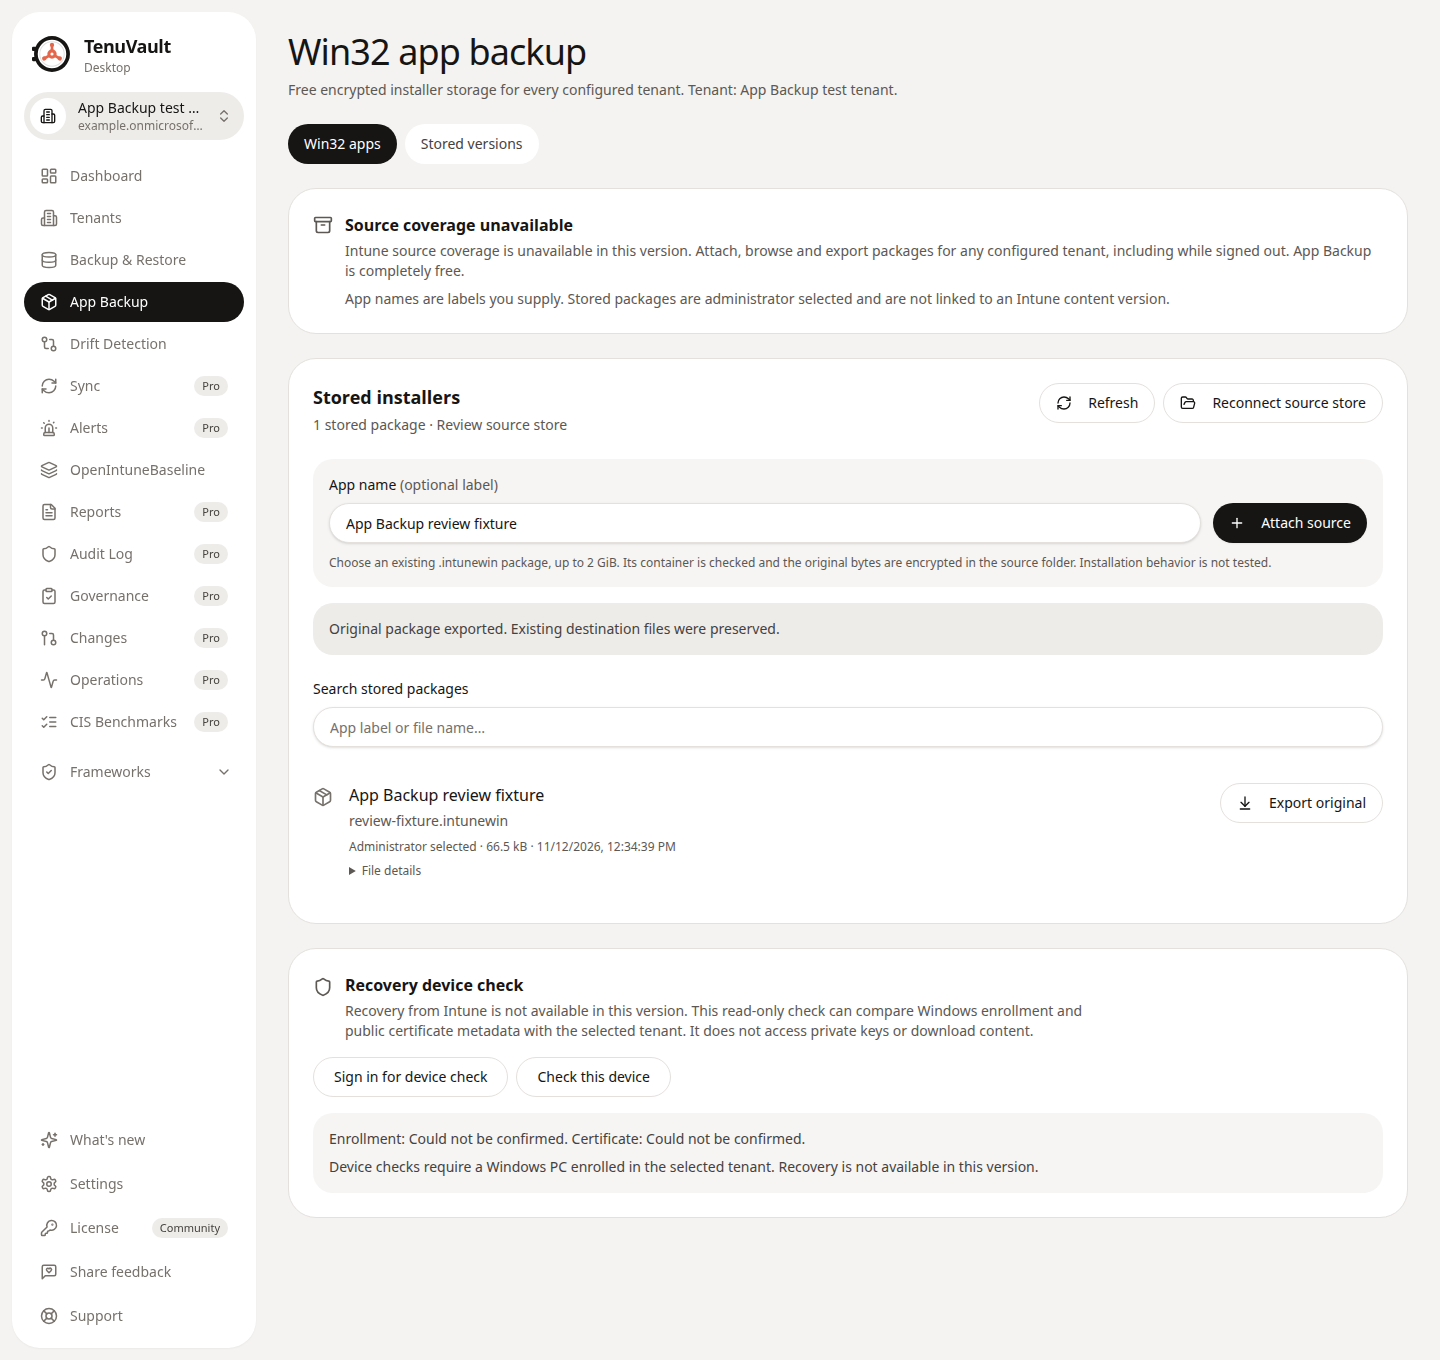
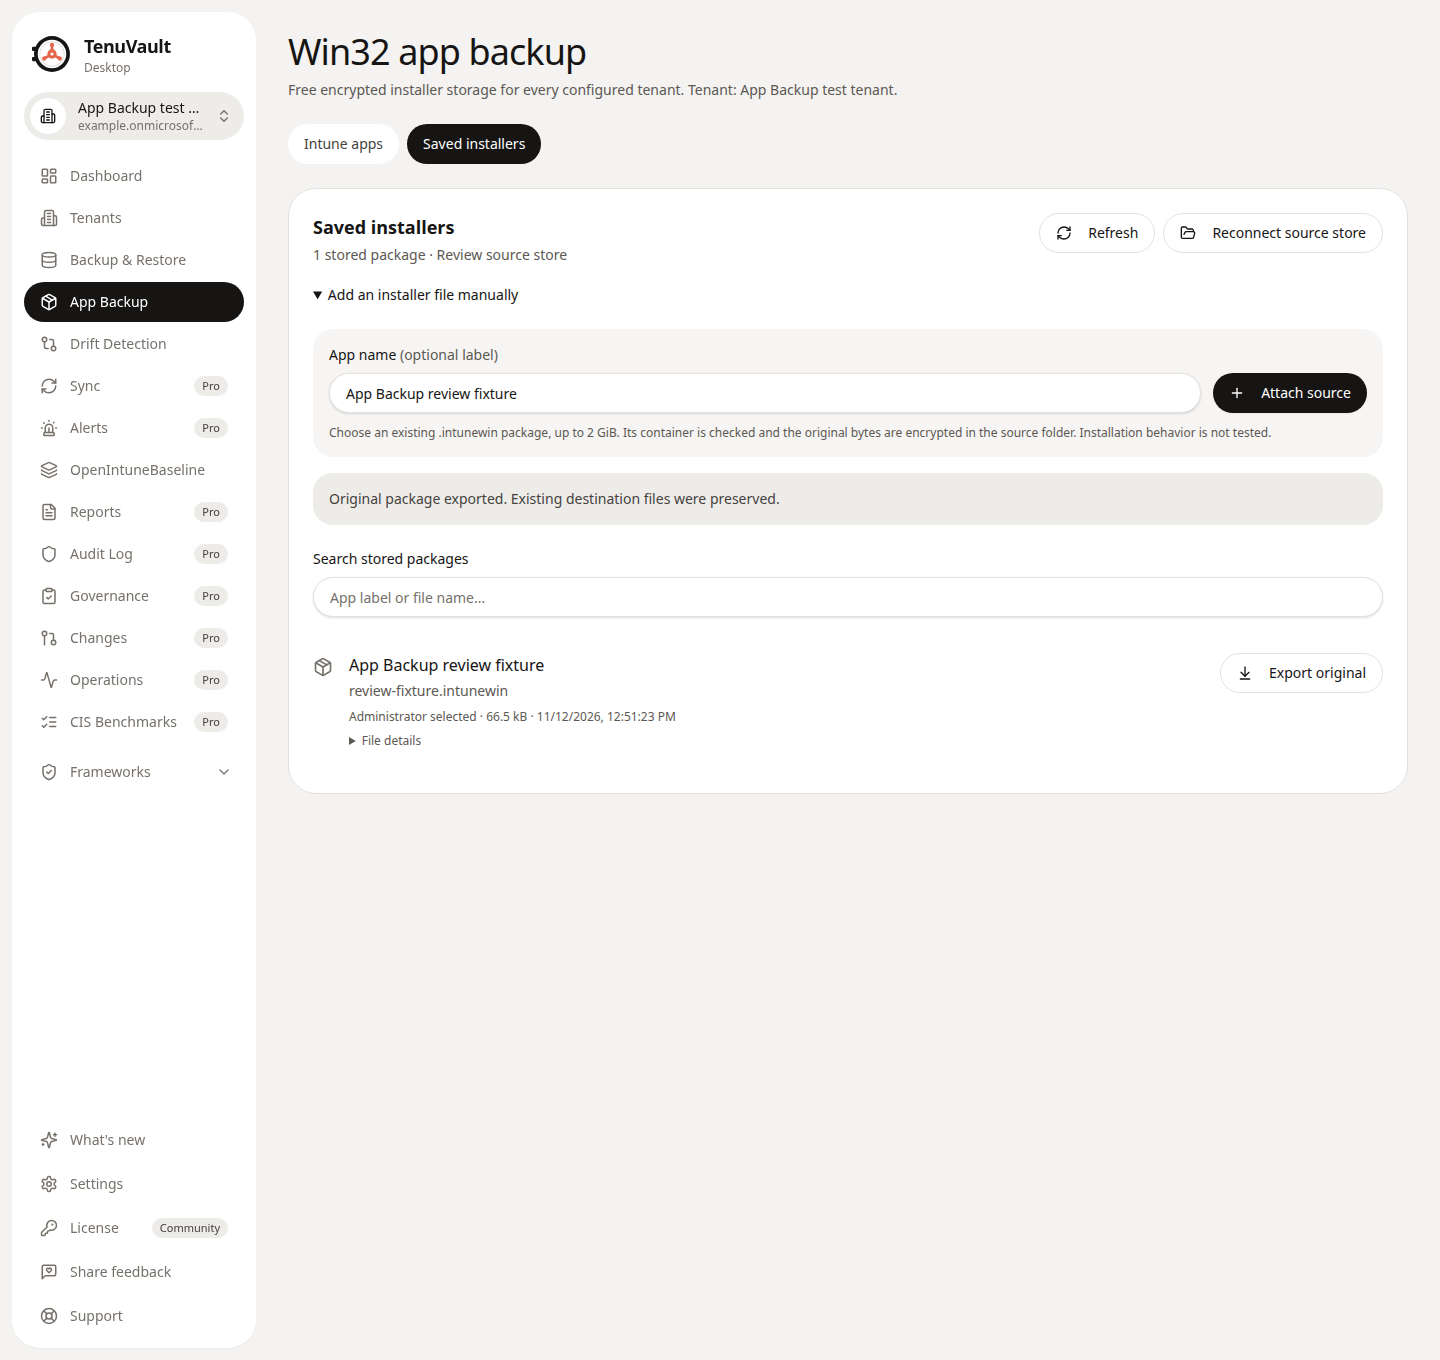
Show the app-first backup flow in PR screenshots

diff --git a/tasks/app-backup-evidence/screenshots/README.md b/tasks/app-backup-evidence/screenshots/README.md
@@ -1,14 +1,14 @@
-# App Backup implementation screenshots
+# App Backup screenshots
 
-Captured from the running Electron build of commit `5a987cb97c382dbea006fd8a88cd6e236579d3b1` on Linux on 2026-11-12. These are application captures, not mockups.
+Captured from the production Electron build of commit `86fc372677c95281e00e2991b79c5e5de8fdaacd` on Linux, using a disposable synthetic tenant with no Microsoft account and no license key.
 
-The disposable profile contains one synthetic tenant, no Microsoft account and no license key. The fixture is an independently authored lab package produced by Microsoft's Content Prep Tool. The disposable process debugger supplied native picker results for its temporary source and destination folders; the real trusted IPC handlers, encrypted store, catalog and exporter executed normally. No product bypass or fixture API was added.
+The disposable review process supplied two synthetic app descriptors for the inventory screenshots, so no real tenant app names or IDs are published. The production inventory loader itself was verified separately, read-only through Lokka Microsoft beta, including response fields, exact Win32 type discrimination, continuation paging and malformed-select errors. These screenshots do not establish delegated permission coverage or content access.
 
-The app attached and listed one package, then exported byte-identical original content. [Validation](validation.json) records matching SHA-256 values. No tenant writes or Intune content capture were performed. Temporary source/export data and the app profile were removed after capture.
+Native file-picker results were supplied for temporary review folders and an independently authored `.intunewin` lab fixture. The real trusted IPC, encrypted source store, catalog and exporter ran normally. No product fixture API or bypass was added. The exported file is byte-identical to its input; [validation](validation.json) records matching SHA-256 values. Temporary data and the disposable profile were removed after capture. No tenant writes, assignment changes, installations or Intune content captures occurred.
 
-- [Empty store, light appearance](01-free-empty-light.png): the feature is free, with unknown inventory coverage and unavailable content recovery.
-- [Stored original, dark appearance](02-stored-original-dark.png): completed attachment, administrator-selected provenance and original-file details.
-- [Export completed, light appearance](03-export-complete-light.png): successful export and the actual Linux device-check limitation.
-- [Stored versions at the 1024px minimum width](04-stored-minimum-width.png): responsive desktop layout with a populated catalog.
+- [Intune apps, light appearance](01-intune-apps-light.png): searchable app list and clear capture availability.
+- [Selected app preparation, dark appearance](02-prepare-backup-dark.png): enrolled PC check, targeting guidance and an unavailable capture step, with manual attachment as a fallback.
+- [Original export completed, light appearance](03-export-complete-light.png): the independent offline Saved installers catalog after a real exact export.
+- [Saved installers at 1024px](04-stored-minimum-width.png): populated catalog at the supported minimum desktop width, without horizontal overflow.
 
-Local attachment, listing, reconnect and exact export are implemented. A read-only Windows device check and future request validator are implemented. Production Intune content recovery, the elevated helper/transport, live inventory, upload and restore are not available in this slice.
+Implemented: live Win32 inventory, preparation guidance, free offline attach/list/reconnect/exact export, a read-only Windows device check and a pure future request validator. Production content capture, elevated helper/transport, source coverage, upload and restore remain unavailable.
